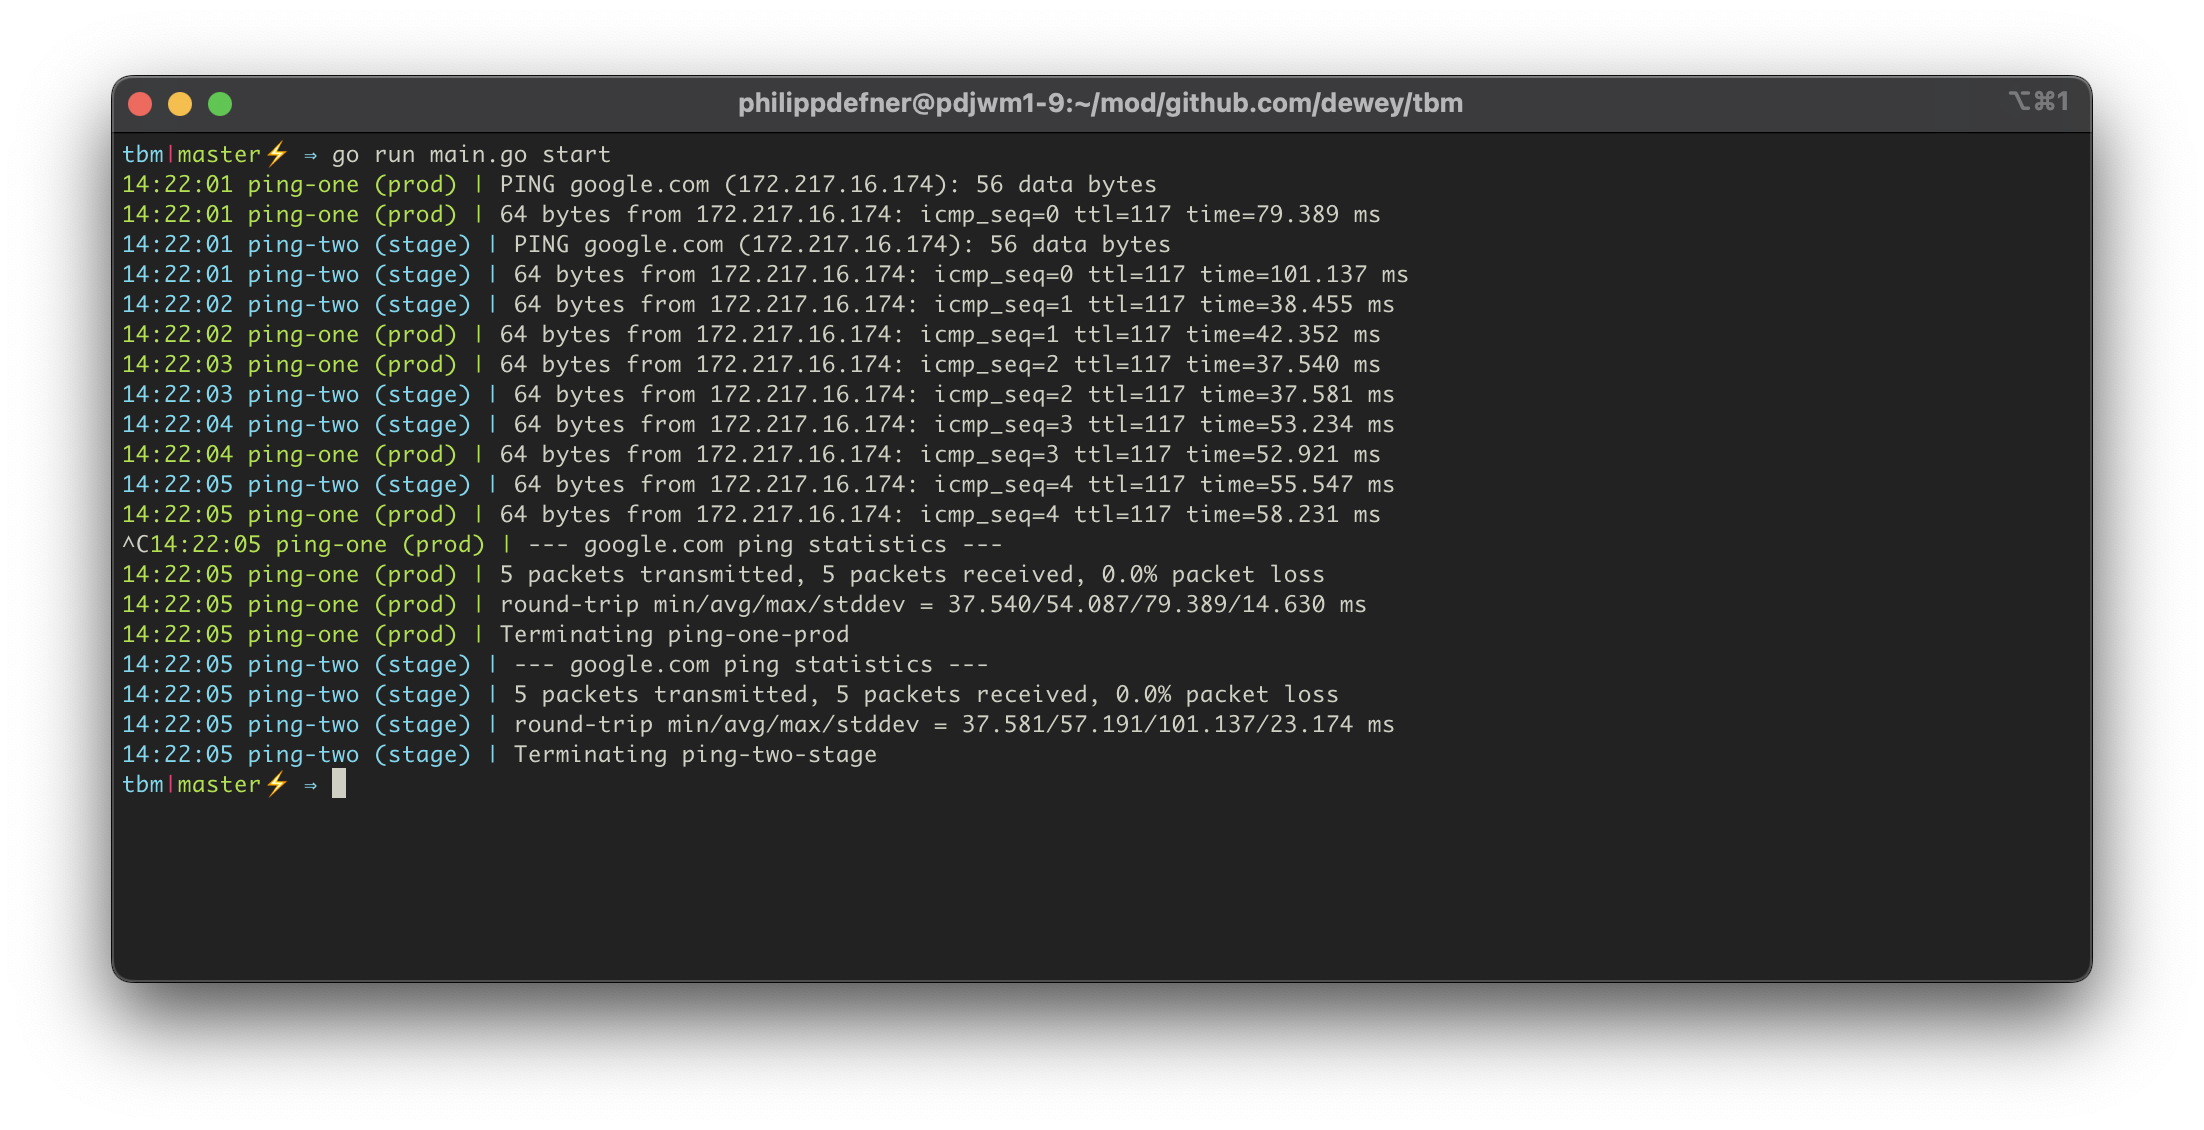
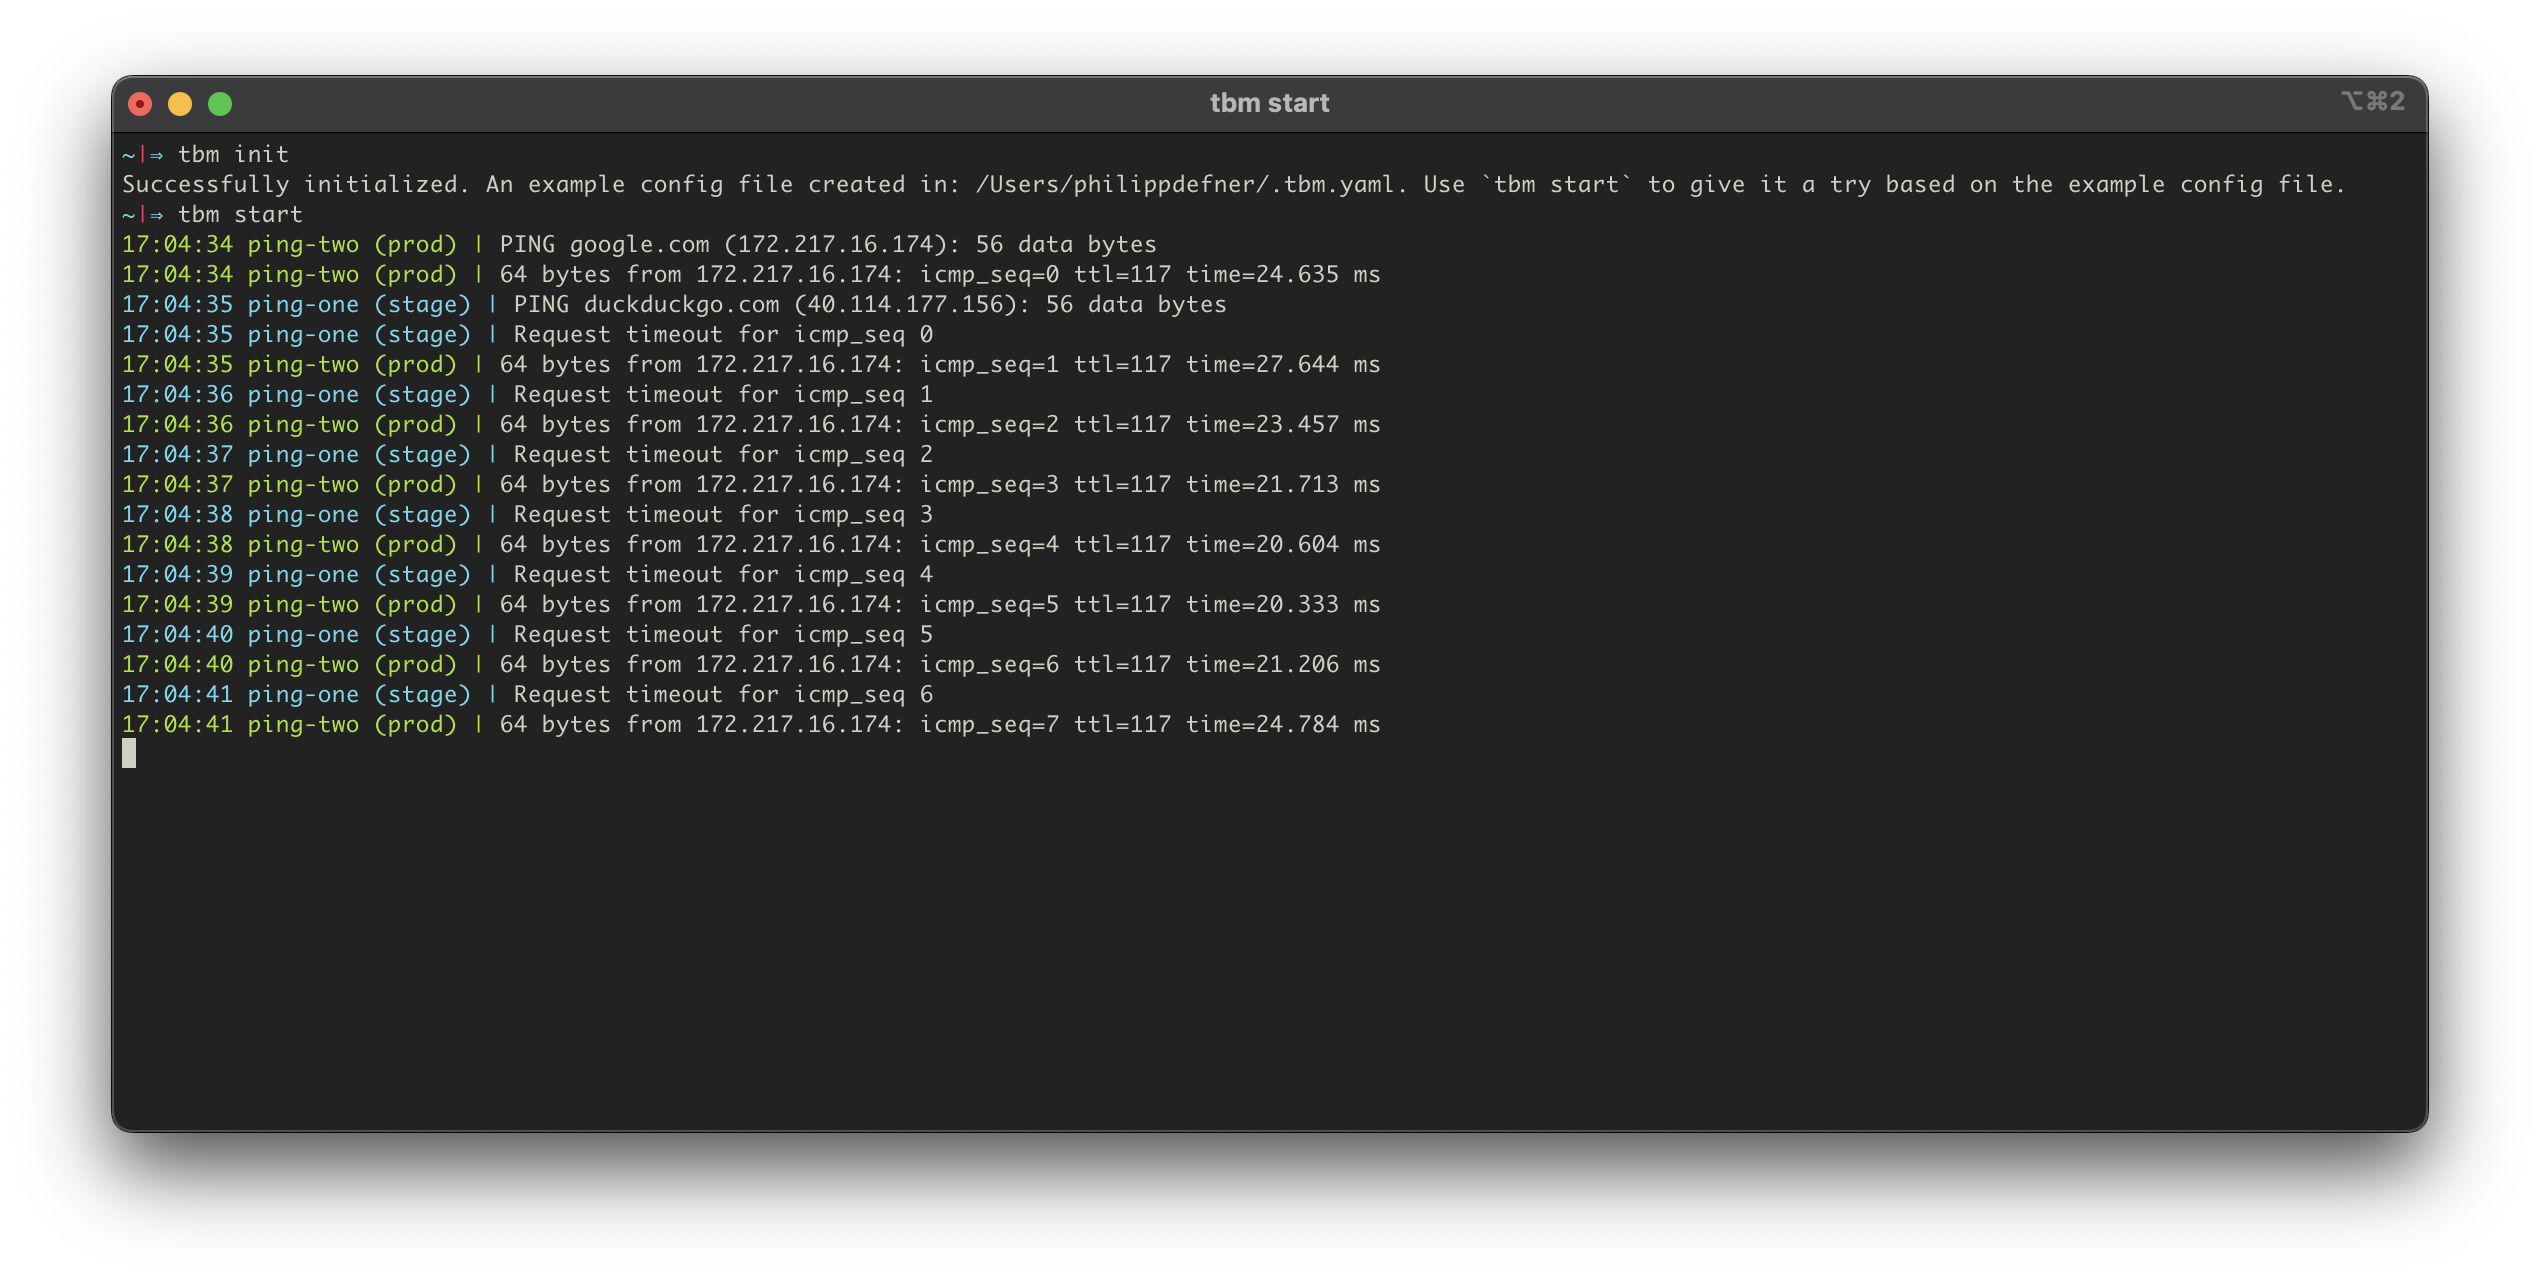
Fix sample config file to be in line with screenshot

Changed region(s): [[0.0309, 0.031, 0.9873, 0.9292]]

diff --git a/cmd/init.go b/cmd/init.go
@@ -52,9 +52,14 @@ var initCmd = &cobra.Command{
 			}
 			configFilePath := path.Join(hd, ".tbm.yaml")
 			services := make(map[string]config.Service)
-			services["ping"] = config.Service{
+			services["ping-one"] = config.Service{
 				Command:     "ping google.com",
 				Environment: "prod",
+				Enable:      true,
+			}
+			services["ping-two"] = config.Service{
+				Command:     "ping duckduckgo.com",
+				Environment: "stage",
 				Enable:      true,
 			}
 			cfg = config.Configuration{Services: services}
